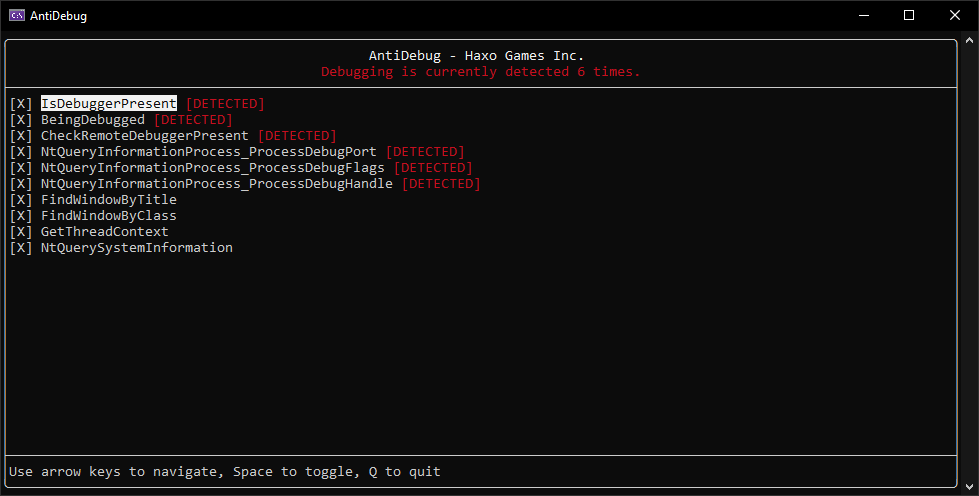
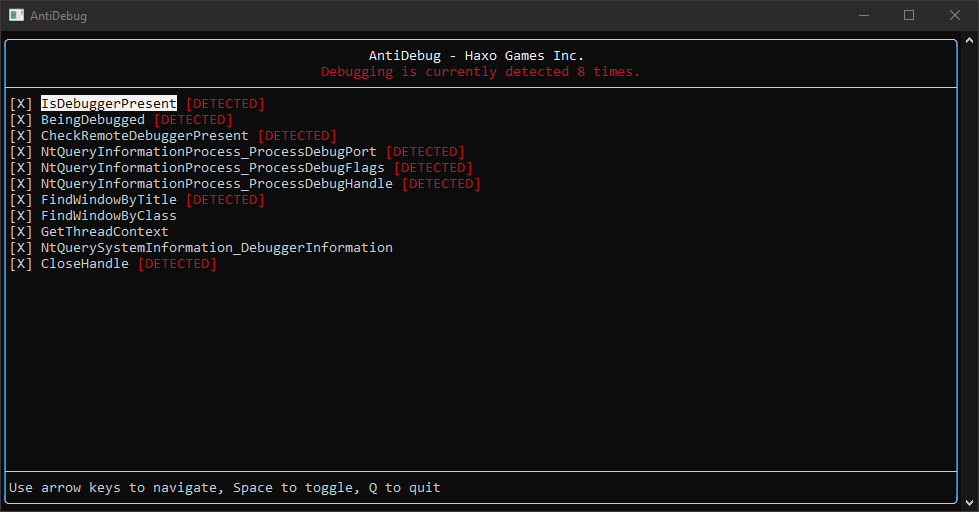
feat: DbgPrint

Changed region(s): [[0.0, 0.0, 1.0, 0.5444], [0.0, 0.9073, 0.9806, 0.998]]

diff --git a/antidebug.cpp b/antidebug.cpp
@@ -32,7 +32,8 @@ AntiDebug::AntiDebugOptions anti_debug_options
 	ADD_ANTI_DEBUG_OPTION("FindWindowByClass", true, callbackFindWindowByClass),
 	ADD_ANTI_DEBUG_OPTION("GetThreadContext", true, callbackGetThreadContext),
 	ADD_ANTI_DEBUG_OPTION("NtQuerySystemInformation_DebuggerInformation", true, callbackNtQuerySystemInformation_DebuggerInformation),
-	ADD_ANTI_DEBUG_OPTION("CloseHandle", false, callbackCloseHandle)
+	ADD_ANTI_DEBUG_OPTION("CloseHandle", false, callbackCloseHandle),
+	ADD_ANTI_DEBUG_OPTION("DbgPrint", true, callbackDbgPrint),
 };
 
 //
@@ -188,3 +189,15 @@ void AntiDebug::callbackCloseHandle(AntiDebugOption& option)
 	}
 }
 
+void AntiDebug::callbackDbgPrint(AntiDebugOption& option)
+{
+	__try
+	{
+		RaiseException(DBG_PRINTEXCEPTION_C, 0, 0, 0);
+		option.detected = true;
+	}
+	__except (GetExceptionCode() == DBG_PRINTEXCEPTION_C)
+	{
+		option.detected = false;
+	}
+}

diff --git a/antidebug.h b/antidebug.h
@@ -30,7 +30,7 @@ namespace AntiDebug
 		{}
 	};
 
-	using AntiDebugOptions = std::array<AntiDebugOption, 11>;
+	using AntiDebugOptions = std::array<AntiDebugOption, 12>;
 
 	//
 	// [SECTION] Variables
@@ -55,4 +55,5 @@ namespace AntiDebug
 	void callbackGetThreadContext(AntiDebugOption& option);
 	void callbackNtQuerySystemInformation_DebuggerInformation(AntiDebugOption& option);
 	void callbackCloseHandle(AntiDebugOption& option);
+	void callbackDbgPrint(AntiDebugOption& option);
 }

diff --git a/README.md b/README.md
@@ -106,6 +106,11 @@ be true if the kernel was initialized with debugging enabled. `DebuggerPresent` 
 When closing an invalid handle an `EXCEPTION_INVALID_HANDLE (0xC0000008)` will be raised if a debugger is attached. This can then be cought by an `__except` block once the debugger passes
 control back to the process. If no debugger is present no exception is thrown. This detection is disabled by default because it causes an exception.
 
+### `DbgPrint`
+
+This method will raise the exception `DBG_PRINTEXCEPTION_C (0x40010006)`. If it is handled by the program itself then no debugger is attached. Otherwise one obviously is. It is usually is raised
+by functions like `DbgPrint`.
+
 ## Contributing
 
 This project is free and open source and will remain so forever. You are welcome to contribute. Simply make a pull request for whatever it is you would like to add, but
